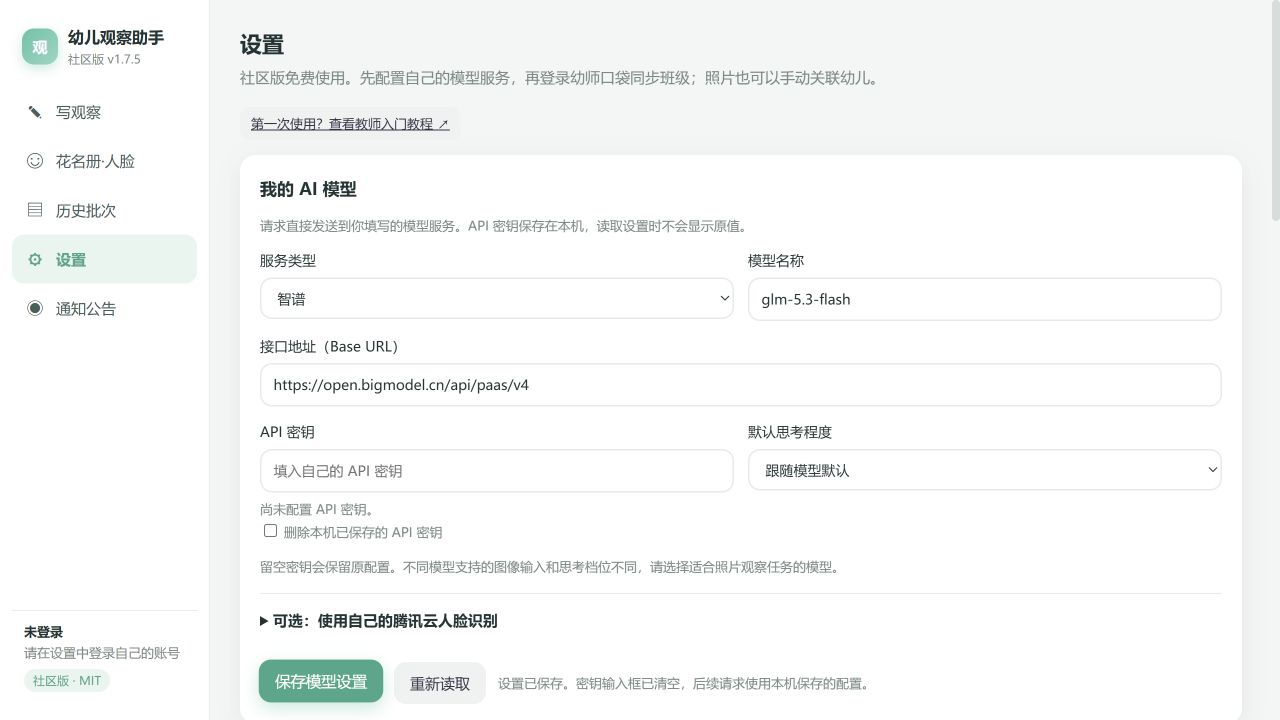
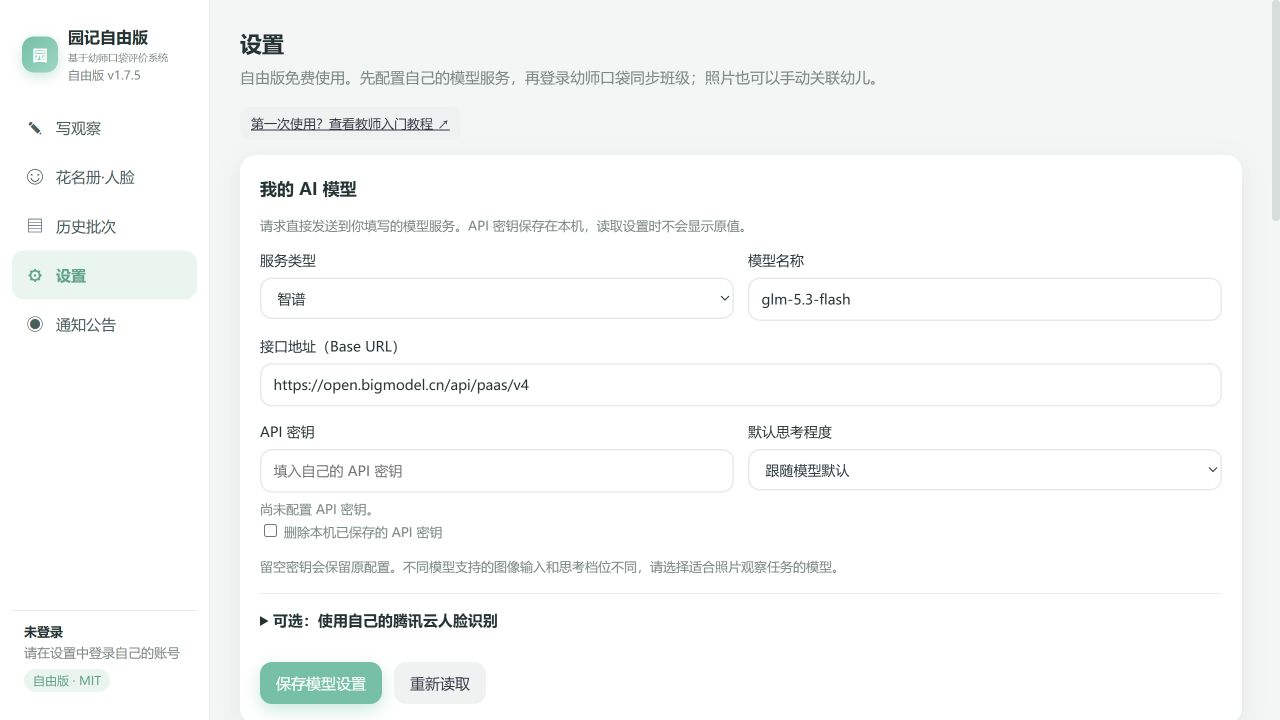
Rename public project to Yuanji Free and clarify Youshikoudai integration

diff --git a/app/static/index.html b/app/static/index.html
@@ -3,7 +3,7 @@
 <head>
 <meta charset="utf-8">
 <meta name="viewport" content="width=device-width, initial-scale=1">
-<title>幼儿观察助手 · 社区版</title>
+<title>园记自由版｜基于幼师口袋评价系统开发的开源助手</title>
 <style>
 :root{
   --bg:#f4f6f5;--card:#fff;--ink:#233;--muted:#7a8a86;--line:#e6ebe9;
@@ -24,6 +24,7 @@ aside{width:210px;background:#fff;border-right:1px solid var(--line);display:fle
 .brand{display:flex;align-items:center;gap:10px;padding:6px 10px 18px}
 .brand .logo{width:36px;height:36px;border-radius:12px;background:linear-gradient(135deg,var(--g),#8fd8c2);display:grid;place-items:center;color:#fff;font-weight:700;box-shadow:0 4px 12px rgba(92,194,166,.35)}
 .brand b{font-size:16px}.brand small{display:block;color:var(--muted);font-size:12px;font-weight:400}
+.brand .tagline{font-size:10px;white-space:nowrap}
 .nav button{display:flex;align-items:center;gap:10px;width:100%;padding:11px 12px;border-radius:12px;text-align:left;color:#45605a;transition:transform .35s var(--spring),background .2s}
 .nav button:hover{background:#f1f6f4;transform:translateX(3px)}
 .nav button.on{background:var(--g2);color:var(--g3);font-weight:600}
@@ -167,7 +168,7 @@ kbd{background:#eef2f1;border-radius:6px;padding:1px 6px;font-size:12px}
 <body>
 <div id="app">
   <aside>
-    <div class="brand"><div class="logo">观</div><div><b>幼儿观察助手</b><small id="ver">v0.1</small></div></div>
+    <div class="brand"><div class="logo">园</div><div><b>园记自由版</b><small class="tagline">基于幼师口袋评价系统</small><small id="ver">v0.1</small></div></div>
     <div class="nav">
       <button data-p="write" class="on"><span class="ic">✎</span>写观察</button>
       <button data-p="roster"><span class="ic">☺</span>花名册·人脸</button>
@@ -177,13 +178,13 @@ kbd{background:#eef2f1;border-radius:6px;padding:1px 6px;font-size:12px}
     </div>
     <div class="spacer"></div>
     <div class="who"><b id="whoName">未登录</b><span id="whoClass">未选择班级</span>
-      <span class="pill g" style="margin-top:6px;align-self:flex-start">社区版 · MIT</span></div>
+      <span class="pill g" style="margin-top:6px;align-self:flex-start">自由版 · MIT</span></div>
   </aside>
   <main>
     <section class="page notice-page" id="p-notices" aria-labelledby="noticePageTitle">
       <div class="notice-heading">
         <div class="notice-icon" aria-hidden="true"><svg viewBox="0 0 24 24" fill="none" stroke="currentColor" stroke-width="1.7" stroke-linecap="round" stroke-linejoin="round"><path d="M18 8a6 6 0 0 0-12 0c0 7-3 7-3 9h18c0-2-3-2-3-9M10 21h4M12 2V1"/></svg></div>
-        <div class="grow"><h1 id="noticePageTitle">通知公告</h1><p>社区版使用说明</p></div>
+        <div class="grow"><h1 id="noticePageTitle">通知公告</h1><p>自由版使用说明</p></div>
 
       </div>
       <div id="noticeContent" aria-live="polite"></div>
@@ -266,8 +267,8 @@ kbd{background:#eef2f1;border-radius:6px;padding:1px 6px;font-size:12px}
 
     <!-- ===== 设置 ===== -->
     <section class="page" id="p-settings">
-      <h1>设置</h1><p class="sub">社区版免费使用。先配置自己的模型服务，再登录幼师口袋同步班级；照片也可以手动关联幼儿。</p>
-      <p><a class="btn sm" href="https://github.com/NB-ZZY/kidobs-community/blob/main/docs/teacher-guide.md" target="_blank" rel="noopener noreferrer" onclick="if(hasNative()){native('open_external',this.href);return false}">第一次使用？查看教师入门教程 ↗</a></p>
+      <h1>设置</h1><p class="sub">自由版免费使用。先配置自己的模型服务，再登录幼师口袋同步班级；照片也可以手动关联幼儿。</p>
+      <p><a class="btn sm" href="https://github.com/NB-ZZY/yuanji-free/blob/main/docs/teacher-guide.md" target="_blank" rel="noopener noreferrer" onclick="if(hasNative()){native('open_external',this.href);return false}">第一次使用？查看教师入门教程 ↗</a></p>
       <div class="card" id="communitySettings"><h2>我的 AI 模型</h2>
         <p class="hint">请求直接发送到你填写的模型服务。API 密钥保存在本机，读取设置时不会显示原值。</p>
         <form id="modelConfigForm" onsubmit="event.preventDefault();CommunitySettings.save()">
@@ -282,7 +283,7 @@ kbd{background:#eef2f1;border-radius:6px;padding:1px 6px;font-size:12px}
           <p class="hint">留空密钥会保留原配置。不同模型支持的图像输入和思考档位不同，请选择适合照片观察任务的模型。</p>
           <details class="settings-optional"><summary>可选：使用自己的腾讯云人脸识别</summary>
             <p class="hint">默认关闭；不配置也可以整理照片并手动选人。启用后，需取得相应照片使用权限，并由自己的腾讯云账号承担服务费用。</p>
-            <p><a class="btn sm" href="https://github.com/NB-ZZY/kidobs-community/blob/main/docs/tencent-face-guide.md" target="_blank" rel="noopener noreferrer" onclick="if(hasNative()){native('open_external',this.href);return false}">腾讯云开通与密钥配置教程 ↗</a></p>
+            <p><a class="btn sm" href="https://github.com/NB-ZZY/yuanji-free/blob/main/docs/tencent-face-guide.md" target="_blank" rel="noopener noreferrer" onclick="if(hasNative()){native('open_external',this.href);return false}">腾讯云开通与密钥配置教程 ↗</a></p>
             <label><input type="checkbox" id="cfgFaceEnabled"> 启用人脸识别</label>
             <div class="settings-grid" style="margin-top:12px">
               <label>SecretId<input class="inp" id="cfgTencentId" type="password" autocomplete="new-password" placeholder="留空保留原值"><span id="cfgTencentIdStatus" class="hint"></span></label>
@@ -341,7 +342,7 @@ kbd{background:#eef2f1;border-radius:6px;padding:1px 6px;font-size:12px}
         <p class="hint" style="margin:8px 0 0">托班使用托育体系（24—36个月）；小班→表现行为一，中班→三，大班→五。</p></div>
       <div class="card"><h2>人脸识别服务（腾讯云）</h2>
         <div class="row"><span id="faceStat" class="grow hint">未测试</span><button class="btn" id="btnFaceTest">测试连接</button></div></div>
-      <div class="card"><h2>关于社区版</h2><p class="hint" style="margin:0">版本 <span id="ver2"></span> · NB-ZZY · MIT。社区版自行配置模型服务，使用本机导入的资料；平台指标以当前账号可访问的内容为准。<br>本机数据目录：<span id="communityDataDir">读取中…</span></p></div>
+      <div class="card"><h2>关于园记自由版</h2><p class="hint" style="margin:0">版本 <span id="ver2"></span> · NB-ZZY · MIT。基于幼师口袋评价系统开发的第三方开源助手。自行配置模型服务，使用本机导入的资料；平台指标以当前账号可访问的内容为准。<br>本机数据目录：<span id="communityDataDir">读取中…</span></p></div>
     </section>
   </main>
 </div>
@@ -388,13 +389,13 @@ function go(p){if(S.sessionChanging)return;$$('.nav button').forEach(b=>b.classL
 const Notice={
   open(){this.render();},
   render(){
-    $('#noticeContent').innerHTML='<article class="notice-card"><span class="notice-label">社区版</span><h3>使用自己的模型，保留自己的资料</h3><p>在设置中填写模型服务地址、模型名称和 API 密钥，然后登录自己的幼师口袋账号同步班级。</p><p>观察记录、随手记和发布前的审核由老师决定。人脸识别为可选功能，可以直接手动选择幼儿。</p><p>代码采用 MIT 许可。导入照片和知识资料前，请确认自己有权使用和处理这些内容。</p></article>';
+    $('#noticeContent').innerHTML='<article class="notice-card"><span class="notice-label">自由版</span><h3>使用自己的模型，保留自己的资料</h3><p>在设置中填写模型服务地址、模型名称和 API 密钥，然后登录自己的幼师口袋账号同步班级。</p><p>观察记录、随手记和发布前的审核由老师决定。人脸识别为可选功能，可以直接手动选择幼儿。</p><p>代码采用 MIT 许可。导入照片和知识资料前，请确认自己有权使用和处理这些内容。</p></article>';
   }
 };
 async function boot(){
   S.status=await api('/api/status');
-  $('#ver').textContent='社区版 v'+S.status.version+(S.status.mock?' (演示模式)':''); $('#ver2').textContent=S.status.version;
-  document.title='幼儿观察助手 · 社区版';
+  $('#ver').textContent='自由版 v'+S.status.version+(S.status.mock?' (演示模式)':''); $('#ver2').textContent=S.status.version;
+  document.title='园记自由版｜基于幼师口袋评价系统开发的开源助手';
   await CommunitySettings.load();
   if(!S.status.logged_in){$('#whoName').textContent='未登录';$('#whoClass').textContent='请在设置中登录自己的账号';go('settings');return;}
   if(!S.status.consent)return showConsent(true);
@@ -435,7 +436,7 @@ async function openLoginWindow(){
     }
     await new Promise(resolve=>setTimeout(resolve,100));
   }
-  throw new Error('尚未连接到桌面登录功能。如果当前使用浏览器，请打开“幼儿观察助手”应用后登录；如果已在应用内，请点“自查”并把结果用于排查。');
+  throw new Error('尚未连接到桌面登录功能。如果当前使用浏览器，请打开“园记自由版”应用后登录；如果已在应用内，请点“自查”并把结果用于排查。');
 }
 function needLogin(autoOpen=false){
   modal(`<h2>登录幼师口袋</h2><p>点击下面按钮会打开幼师口袋的登录页，用微信扫码或账号密码登录后，这个窗口会自动关闭。</p>
@@ -525,7 +526,7 @@ async function openYskSite(){
       if(bridge&&typeof bridge.open_ysk_site==='function')break;
       bridge=null;await new Promise(resolve=>setTimeout(resolve,100));
     }
-    if(!bridge)throw new Error('请在“幼儿观察助手”桌面版中使用此功能；软件会沿用自己的登录状态打开官网。');
+    if(!bridge)throw new Error('请在“园记自由版”桌面版中使用此功能；软件会沿用自己的登录状态打开官网。');
     // 原生方法负责身份校验和超时；等待实际结果，避免重复点击另开窗口。
     const r=await bridge.open_ysk_site();
     if(epoch!==S.sessionEpoch||S.sessionChanging)return;

diff --git a/tests/test_community_frontend.js b/tests/test_community_frontend.js
@@ -9,7 +9,7 @@ for(const name of ['community_settings.js','observation_ai.js','knowledge.js'])n
 for(const forbidden of ['ClientPolicy','Payment','policy-locked','/api/license','/api/client-policy','/api/update','licPoll','showActivate','PRIVATE_KEY'])assert(!html.includes(forbidden),forbidden+' unexpectedly present');
 for(const id of ['p-write','p-roster','p-history','p-settings','p-notices','btnRelogin','btnLogout','btnYskSite','btnPickClass'])assert(html.includes('id="'+id+'"'),id+' missing');
 for(const id of ['pkFast','pkDeep','aiModeTip'])assert(!html.includes('id="'+id+'"'),'obsolete speed control '+id);
-for(const doc of ['teacher-guide','tencent-face-guide'])assert(html.includes('https://github.com/NB-ZZY/kidobs-community/blob/main/docs/'+doc+'.md'),'missing guide link '+doc);
+for(const doc of ['teacher-guide','tencent-face-guide'])assert(html.includes('https://github.com/NB-ZZY/yuanji-free/blob/main/docs/'+doc+'.md'),'missing guide link '+doc);
 const goSource=html.match(/function go\(p\)\{[\s\S]*?(?=\r?\n\r?\n\/\*)/)[0];
 let renderCount=0,exportCount=0;
 const navContext={S:{sessionChanging:false,status:null},$$:()=>[],renderSettings:()=>renderCount++,showExportDir:()=>exportCount++};

diff --git a/app/main.py b/app/main.py
@@ -965,7 +965,7 @@ def selftest() -> int:
     import config
     required = ['fastapi', 'uvicorn', 'requests', 'PIL', 'openpyxl', 'docx']
     missing = [name for name in required if importlib.util.find_spec(name) is None]
-    print('Kidobs Community', config.VERSION)
+    print('Yuanji Free', config.VERSION)
     print('data directory:', config.DATA_DIR)
     print('settings:', 'configured' if config.public_settings()['api_key_set'] else 'needs API key')
     print('dependencies:', ', '.join(missing) if missing else 'OK')
@@ -979,7 +979,7 @@ def main():
     if "--体检" in sys.argv or "--selftest" in sys.argv:
         sys.exit(selftest())
     if not single_instance():
-        msgbox("「幼儿观察助手」已经在运行了。\n请在任务栏里找到它的窗口。")
+        msgbox("「园记自由版」已经在运行了。\n请在任务栏里找到它的窗口。")
         return
 
     _PORT = free_port()

diff --git a/app/config.py b/app/config.py
@@ -8,7 +8,7 @@ from pathlib import Path
 from urllib.parse import urlsplit
 
 APP_NAME = 'kidobs-community'
-APP_TITLE = '幼儿观察助手 · 社区版'
+APP_TITLE = '园记自由版｜基于幼师口袋评价系统开发的开源助手'
 VERSION = '1.7.5'
 BASE_DIR = Path(sys._MEIPASS) if getattr(sys, 'frozen', False) else Path(__file__).resolve().parent
 STATIC_DIR = BASE_DIR / 'static'

diff --git a/launch.py b/launch.py
@@ -1,4 +1,4 @@
-"""Create a project-local environment, install dependencies, then run Kidobs."""
+"""Create a project-local environment, install dependencies, then run Yuanji Free."""
 from __future__ import annotations
 
 import argparse

diff --git a/docs/teacher-guide.md b/docs/teacher-guide.md
@@ -1,4 +1,8 @@
-# 老师第一次使用：从下载到第一条记录
+# 园记自由版｜基于幼师口袋评价系统开发的开源助手
+
+园记自由版（Yuanji Free）——把时间还给老师。
+
+本篇是独立第三方工具「园记自由版」的教师入门教程：从下载到第一条记录。
 
 这份教程给没有编程经验的老师。可以先完成“下载—设置 AI—登录—手动选幼儿—生成一条记录”，用顺手了再开启自动认脸。
 
@@ -12,19 +16,19 @@
 
 **API** 可以理解为“软件向某个服务发请求的通道”。**密钥** 是服务给你的通行凭据，不是这个软件的激活码，也不是幼师口袋密码。三处的账号、余额和密钥互不通用。
 
-社区版不用向作者付激活费。你配置的 AI 服务和腾讯云服务可能按使用量计费，费用在各自的平台查看。开源免费不表示第三方云服务免费。
+园记自由版不用向作者付激活费。你配置的 AI 服务和腾讯云服务可能按使用量计费，费用在各自的平台查看。开源免费不表示第三方云服务免费。
 
 ## 2. 下载并解压
 
-1. 在浏览器打开 [项目首页](https://github.com/NB-ZZY/kidobs-community)。
+1. 在浏览器打开 [项目首页](https://github.com/NB-ZZY/yuanji-free)。
 2. 找到绿色 **Code** 按钮，点击 **Download ZIP**。
 3. 在“下载”文件夹找到 ZIP。Windows 右键选择“全部解压缩”；macOS 双击解压。
-4. 把解压后的文件夹放在容易找到的位置，例如“文档”中的“幼儿观察助手”。不要在 ZIP 压缩包内部直接运行。
+4. 把解压后的文件夹放在容易找到的位置，例如“文档”中的“园记自由版”。不要在 ZIP 压缩包内部直接运行。
 5. 打开文件夹，应能看到 `start.cmd`、`launch.py`、`README.md` 和 `app` 文件夹。这是源码包，需要下一步的 Python 才能启动，并非双击就安装的 EXE 安装包。
 
 如果你使用 WorkBuddy、Codex 等本地编程助手，可发送下面这一句：
 
-> 请从 https://github.com/NB-ZZY/kidobs-community 下载项目，阅读 README.md 和 AGENTS.md，安装并启动社区版。保持生产数据不动，先把设置页打开给我；我的 API 密钥由我自己在设置页填写，不要替我发记录。
+> 请从 https://github.com/NB-ZZY/yuanji-free 下载项目，阅读 README.md 和 AGENTS.md，安装并启动园记自由版。保持生产数据不动，先把设置页打开给我；我的 API 密钥由我自己在设置页填写，不要替我发记录。
 
 ## 3. 第一次启动
 
@@ -34,7 +38,7 @@
 2. 打开安装程序，勾选 **Add python.exe to PATH**，再安装。它让系统能够找到 Python。
 3. 回到刚才解压的项目文件夹，双击 **start.cmd**。如果电脑隐藏扩展名，你可能只看到“start”。
 4. 第一次会打开一个文字窗口，下载运行所需的依赖。保持网络连接并等它完成；这不是录入照片或购买服务。不要提前关闭窗口。
-5. 随后会出现“幼儿观察助手 · 社区版”。先打开“设置”。
+5. 随后会出现“园记自由版”。先打开“设置”。
 
 若提示缺少 WebView2，可安装 [微软官方 WebView2 Evergreen Runtime](https://developer.microsoft.com/microsoft-edge/webview2/)。如果只在普通浏览器中打开了界面，扫码登录弹窗功能可能不可用，优先修好桌面运行环境。
 
@@ -55,7 +59,7 @@
 
 在软件“设置 → 我的 AI 模型”填写：
 
-![社区版设置页：不需要激活，填写自己的模型服务](images/settings.jpg)
+![园记自由版设置页：不需要激活，填写自己的模型服务](images/settings.jpg)
 
 | 软件字段 | 从哪里取得 / 如何填写 |
 | --- | --- |
@@ -114,7 +118,7 @@
 | 配置字段灰色，提示环境变量 | 启动者在 `.env` 或系统环境中固定了该字段；修改对应配置并重启 |
 | 扫码窗口没出现 | 使用桌面模式；点“登录老是不成功？点这里自查”，记录系统版本和错误信息 |
 | 相册照片加载失败 | 核对网站登录状态与网络；先在官网确认该照片可见，保存工作后再重登 |
-| 找不到月度评价 | 社区版不包含该功能及配套课程包 |
+| 找不到月度评价 | 园记自由版不包含该功能及配套课程包 |
 
 提问时只发必要的报错与操作步骤。请遮住孩子姓名、脸、家长信息和密钥；不要上传整个数据文件夹到公开 Issue。
 
@@ -124,7 +128,7 @@
 
 备份时先正常退出程序，再复制完整数据目录到自己保管的位置。里面含照片、草稿、登录状态和密钥，不能当作普通教程附件公开发送。
 
-更新源码时先备份数据、关闭程序，再下载新版源码到新文件夹并启动；使用 Git 的人可以 `git pull`。个人资料不在源码目录内，通常无需重复导入；不要为了更新去删除数据目录。当前社区版不连接商业版自动更新服务。
+更新源码时先备份数据、关闭程序，再下载新版源码到新文件夹并启动；使用 Git 的人可以 `git pull`。个人资料不在源码目录内，通常无需重复导入；不要为了更新去删除数据目录。园记自由版不连接商业版自动更新服务。
 
 ## 10. 写作流程在哪里
 

diff --git a/README.md b/README.md
@@ -1,6 +1,8 @@
-# 幼儿观察助手 · 社区版
+# 园记自由版｜基于幼师口袋评价系统开发的开源助手
 
-帮助幼儿园教师整理照片、撰写随手记和观察记录，再由教师审核、导出或提交到自己的幼师口袋账号。
+**把时间还给老师。** 园记自由版（Yuanji Free）基于幼师口袋评价系统开发，帮助幼儿园教师整理照片、撰写随手记和观察记录，再由教师审核、导出或提交到自己的幼师口袋账号。
+
+这是独立开发的第三方开源工具，与幼师口袋、慧园通无官方隶属关系。使用网站功能仍需要你自己的有效账号及相应权限。
 
 **无需激活码，不接入项目作者的收费、授权或更新服务器。** AI 使用你自己配置的模型与 API，调用费用由对应服务商收取。照片理解需要所选模型支持图片输入。
 
@@ -12,8 +14,8 @@
 2. 下载本仓库的 ZIP 并完整解压，或执行：
 
    ```sh
-   git clone https://github.com/NB-ZZY/kidobs-community.git
-   cd kidobs-community
+   git clone https://github.com/NB-ZZY/yuanji-free.git
+   cd yuanji-free
    ```
 
 3. Windows 双击 `start.cmd`；macOS 在终端执行 `python3 launch.py`。首次运行会在项目目录创建 `.venv` 并安装依赖。

diff --git a/docs/resource-packs.md b/docs/resource-packs.md
@@ -1,6 +1,6 @@
 # 本地资料包
 
-社区版把写作流程与教育资料分开。当前内置六领域核心经验资料、网站普通班 36 项能力目录（341 条表现原句）、托育 24—36 个月目录（13 项能力、87 条表现原句）。出处见[资料来源清单](../app/data/SOURCES.md)。月评功能、月度课程包、慧园通观察指引原文及托幼发展文档原文不在社区版中。
+园记自由版把写作流程与教育资料分开。当前内置六领域核心经验资料、网站普通班 36 项能力目录（341 条表现原句）、托育 24—36 个月目录（13 项能力、87 条表现原句）。出处见[资料来源清单](../app/data/SOURCES.md)。月评功能、月度课程包、慧园通观察指引原文及托幼发展文档原文不在园记自由版中。
 
 导入文件只保存在当前电脑，不会上传到项目作者的服务器。请使用自己编写、获得许可或有其他合法使用依据的资料；项目的代码许可证不授予第三方资料的版权。即使移除全部资料，程序也能启动：没有对应指标就不选指标，没有知识依据就不生成虚构引用。
 

diff --git a/AGENTS.md b/AGENTS.md
@@ -1,6 +1,7 @@
-# Kidobs Community
+# 园记自由版 / Yuanji Free
 
-This repository is the standalone community edition. Keep it independent of any
+This repository is Yuanji Free, an independently developed third-party open-source
+assistant built for the Youshikoudai evaluation system. Keep it independent of any
 private activation service, payment backend, signing key or release server.
 
 ## Run
